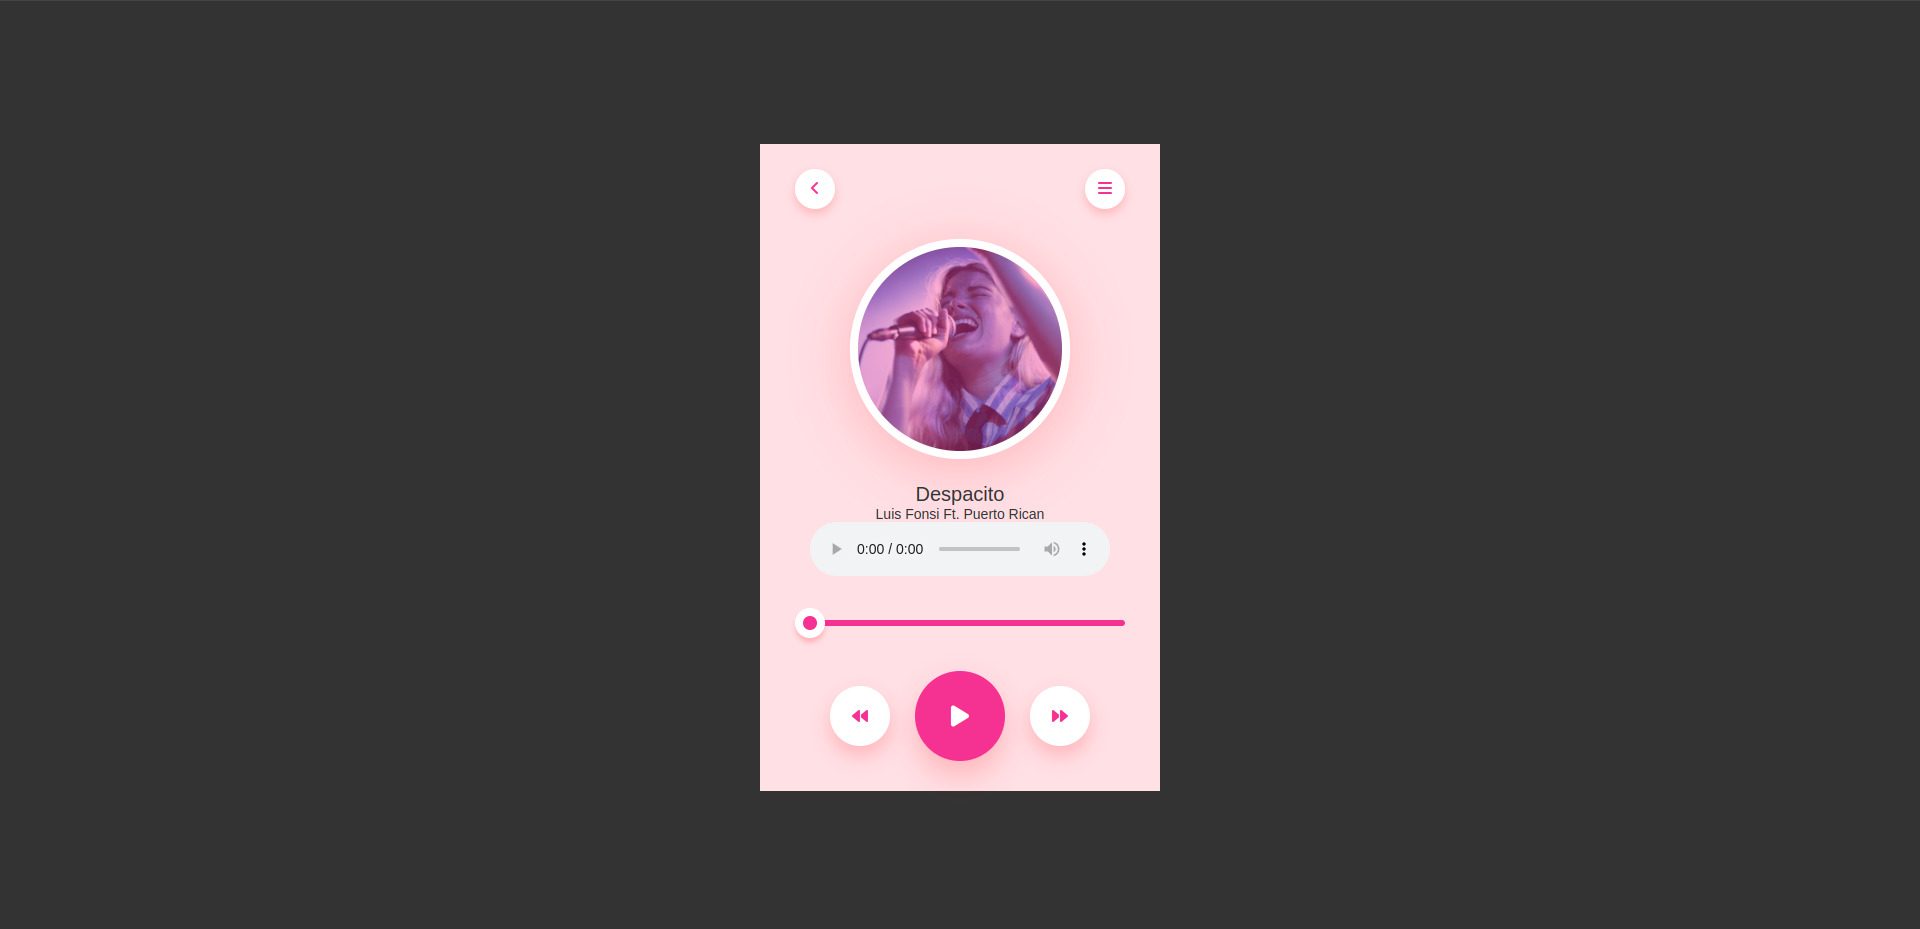
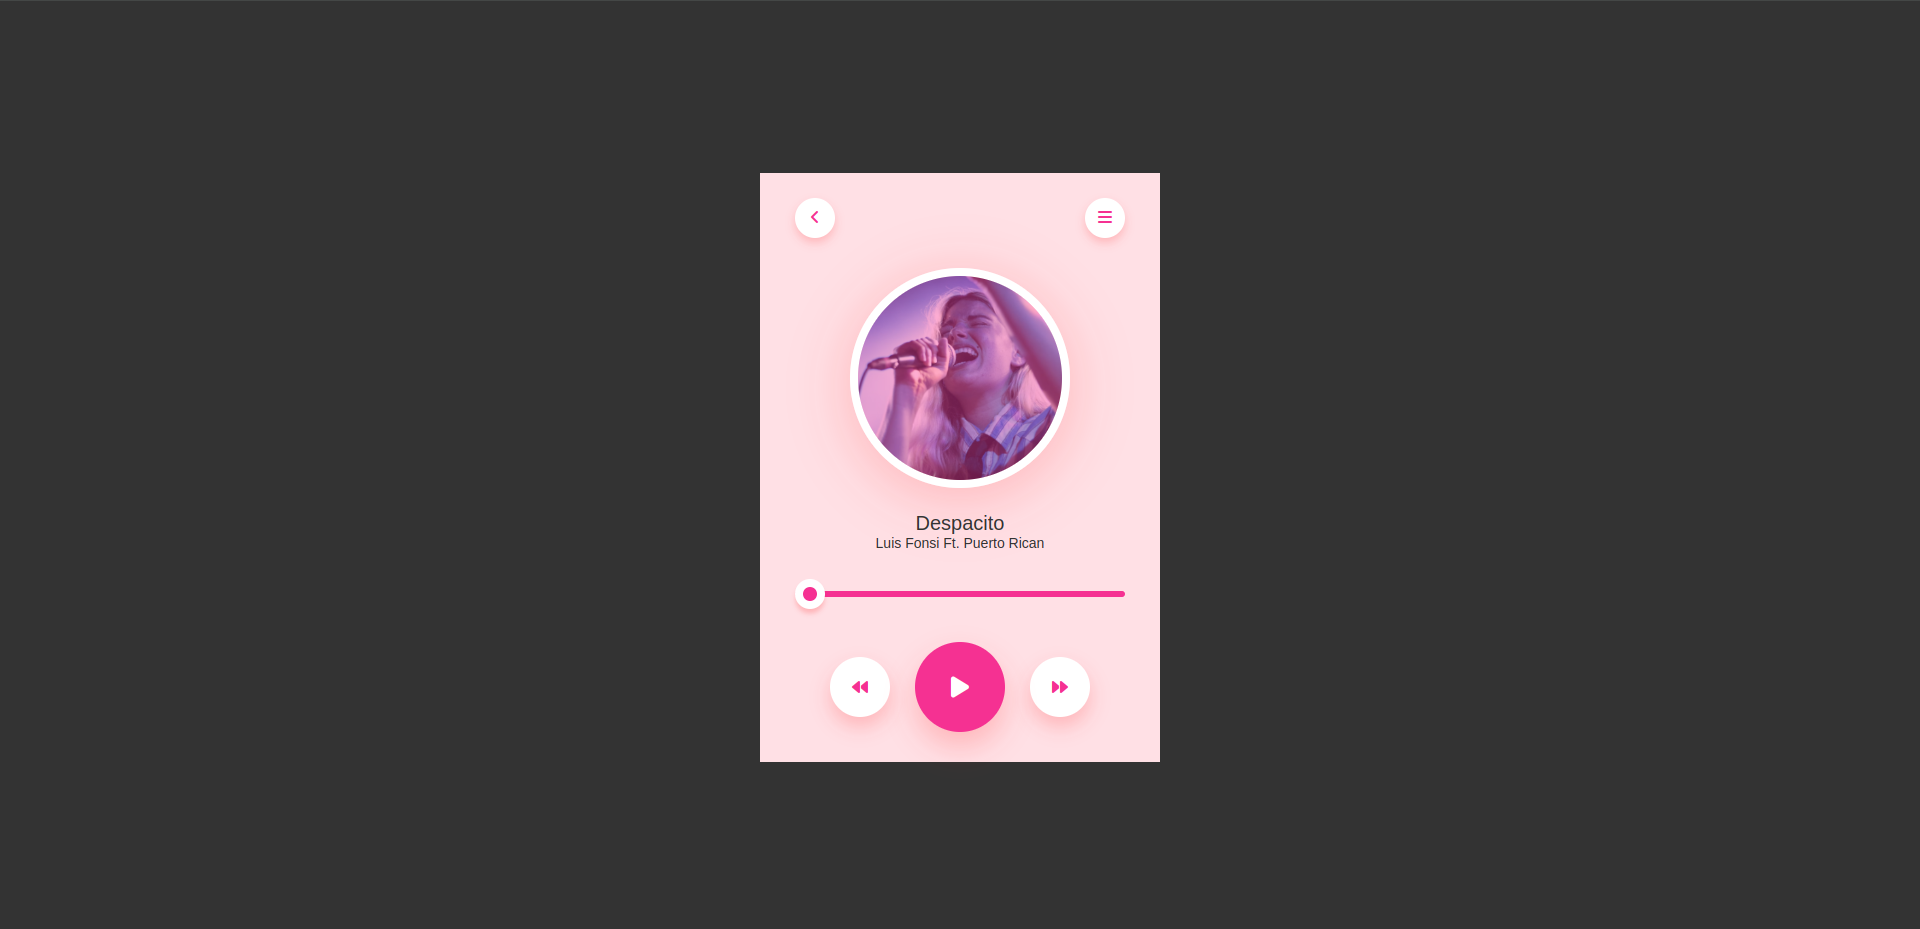
added functionality for sliding bar using JS

Changed region(s): [[0.375, 0.6243, 0.625, 0.8741], [0.4375, 0.2497, 0.5625, 0.5931], [0.375, 0.1561, 0.625, 0.2809]]

diff --git a/index.html b/index.html
@@ -25,7 +25,7 @@
         <h1>Despacito</h1>
         <p>Luis Fonsi Ft. Puerto Rican</p>
 
-        <audio controls id="song">
+        <audio id="song">
           <source src="" type="audio/mpeg" />
         </audio>
 
@@ -62,6 +62,19 @@
             ctrlIcon.classList.add("fa-pause");
             ctrlIcon.classList.remove("fa-play");
         }
+      }
+
+      if(song.play()){
+        setInterval(()=>{
+            progress.value = song.currentTime;
+        },500);
+      }
+
+      progress.onchange = function(){
+        song.play();
+        song.currentTime = progress.value;
+        ctrlIcon.classList.add("fa-pause");
+        ctrlIcon.classList.remove("fa-play");
       }
     </script>
   </body>
